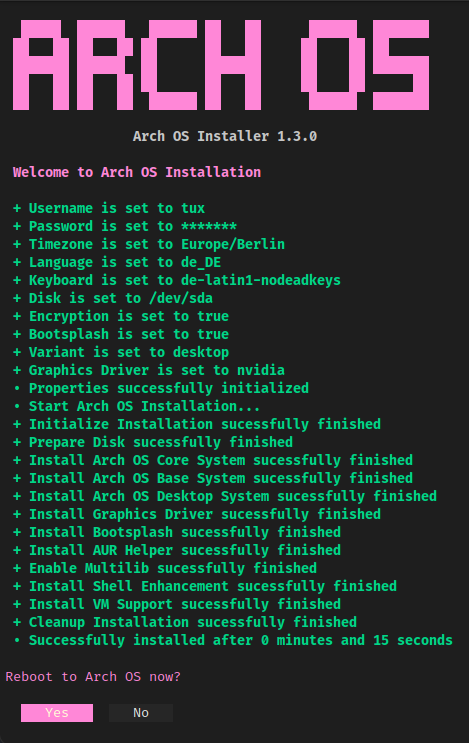
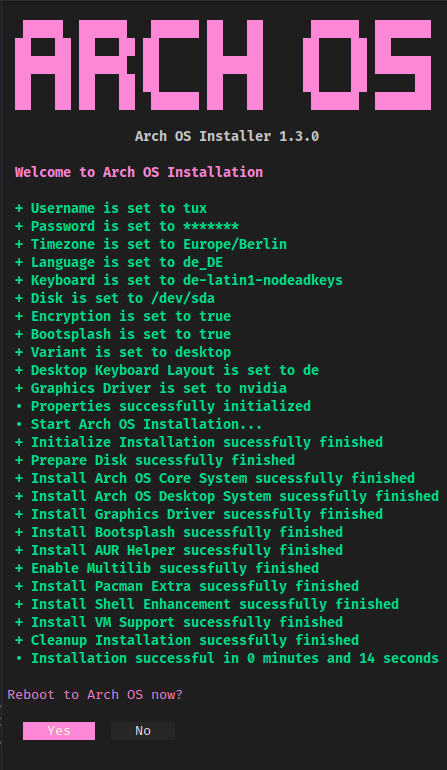
refactoring

Changed region(s): [[0.0291, 0.0, 0.9888, 0.8668], [0.0, 0.8977, 0.4072, 0.9906]]

diff --git a/docs/DOCS.md b/docs/DOCS.md
@@ -199,6 +199,9 @@ ARCH_OS_AUR_HELPER='paru'
 # MultiLib 32 Bit Support (base) | Default: true | Disable: false
 ARCH_OS_MULTILIB_ENABLED='true'
 
+# Pacman Extra | Default: true | Disable: false
+ARCH_OS_PACMAN_EXTRA_ENABLED='true'
+
 # Country used by reflector (base) | Default: null | Example: Germany,France
 ARCH_OS_REFLECTOR_COUNTRY=''
 
